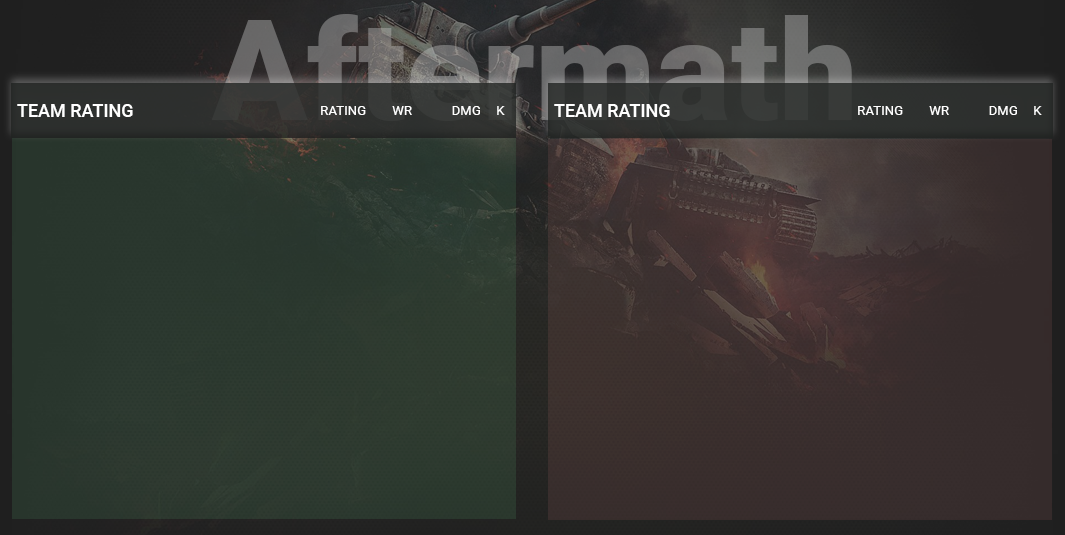
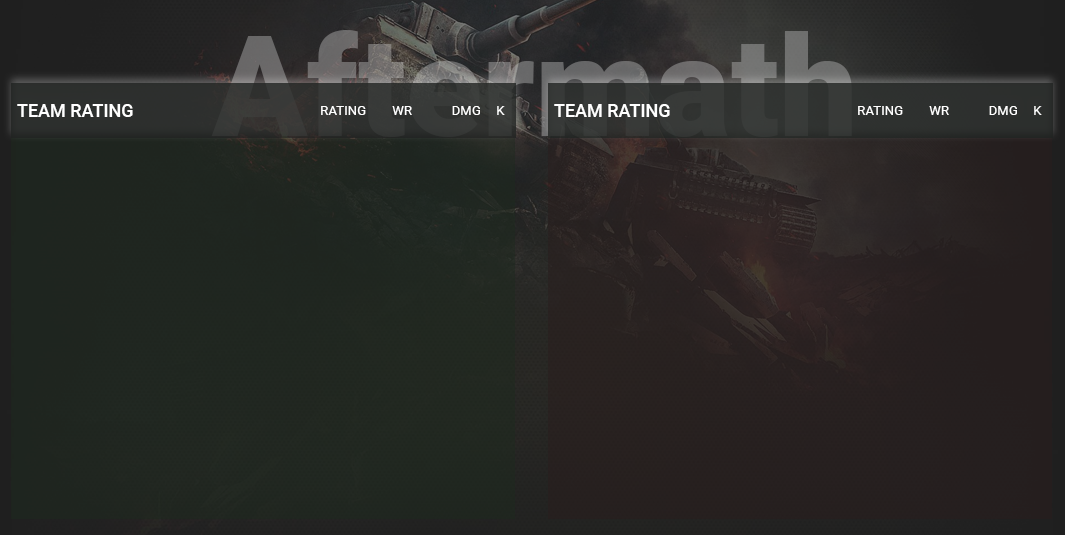
updated colors

diff --git a/cogs/replays/render.py b/cogs/replays/render.py
@@ -157,7 +157,7 @@ class Render():
             "./cogs/replays/render/font_slim.ttf", 14)
         font_color_base = (255, 255, 255)
         font_color_nickname = (255, 255, 255)
-        font_color_nickname_dead = (180, 180, 180)
+        font_color_nickname_dead = (120, 120, 120)
         font_color_clan = (150, 150, 150)
         font_color_pr = (255, 165, 0)
         font_color_pr_dead = (204, 132, 0)
